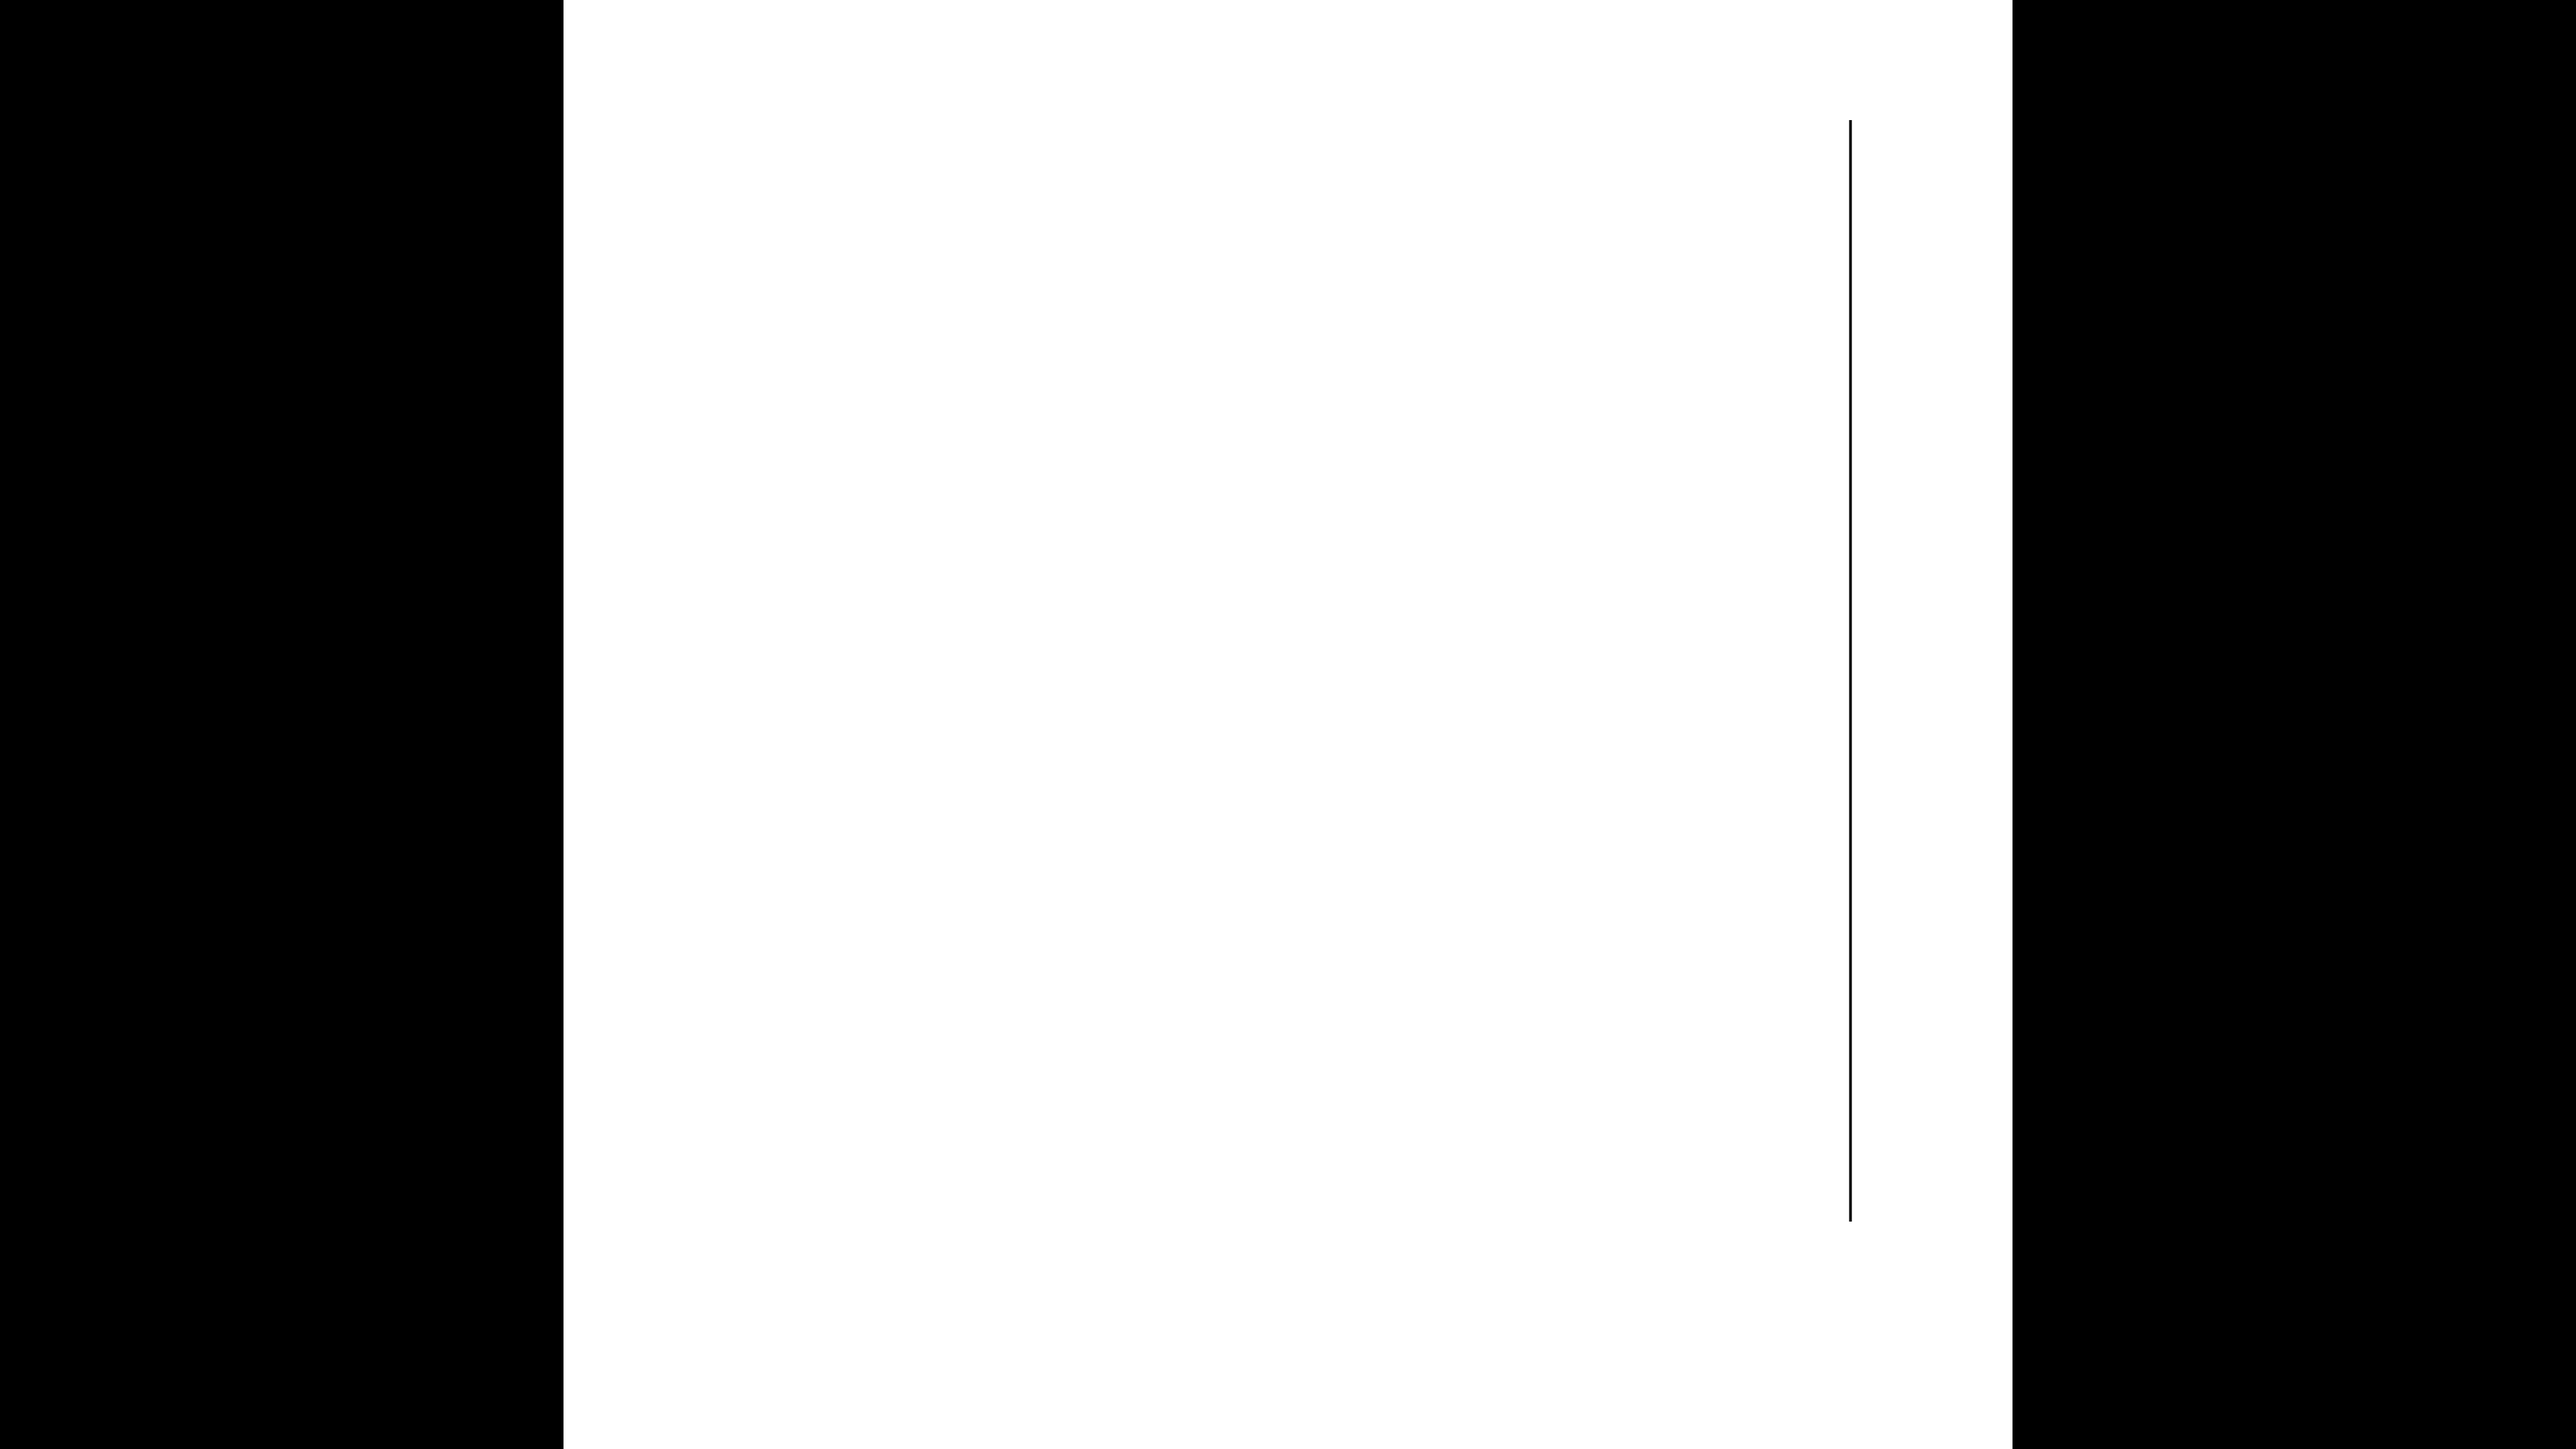
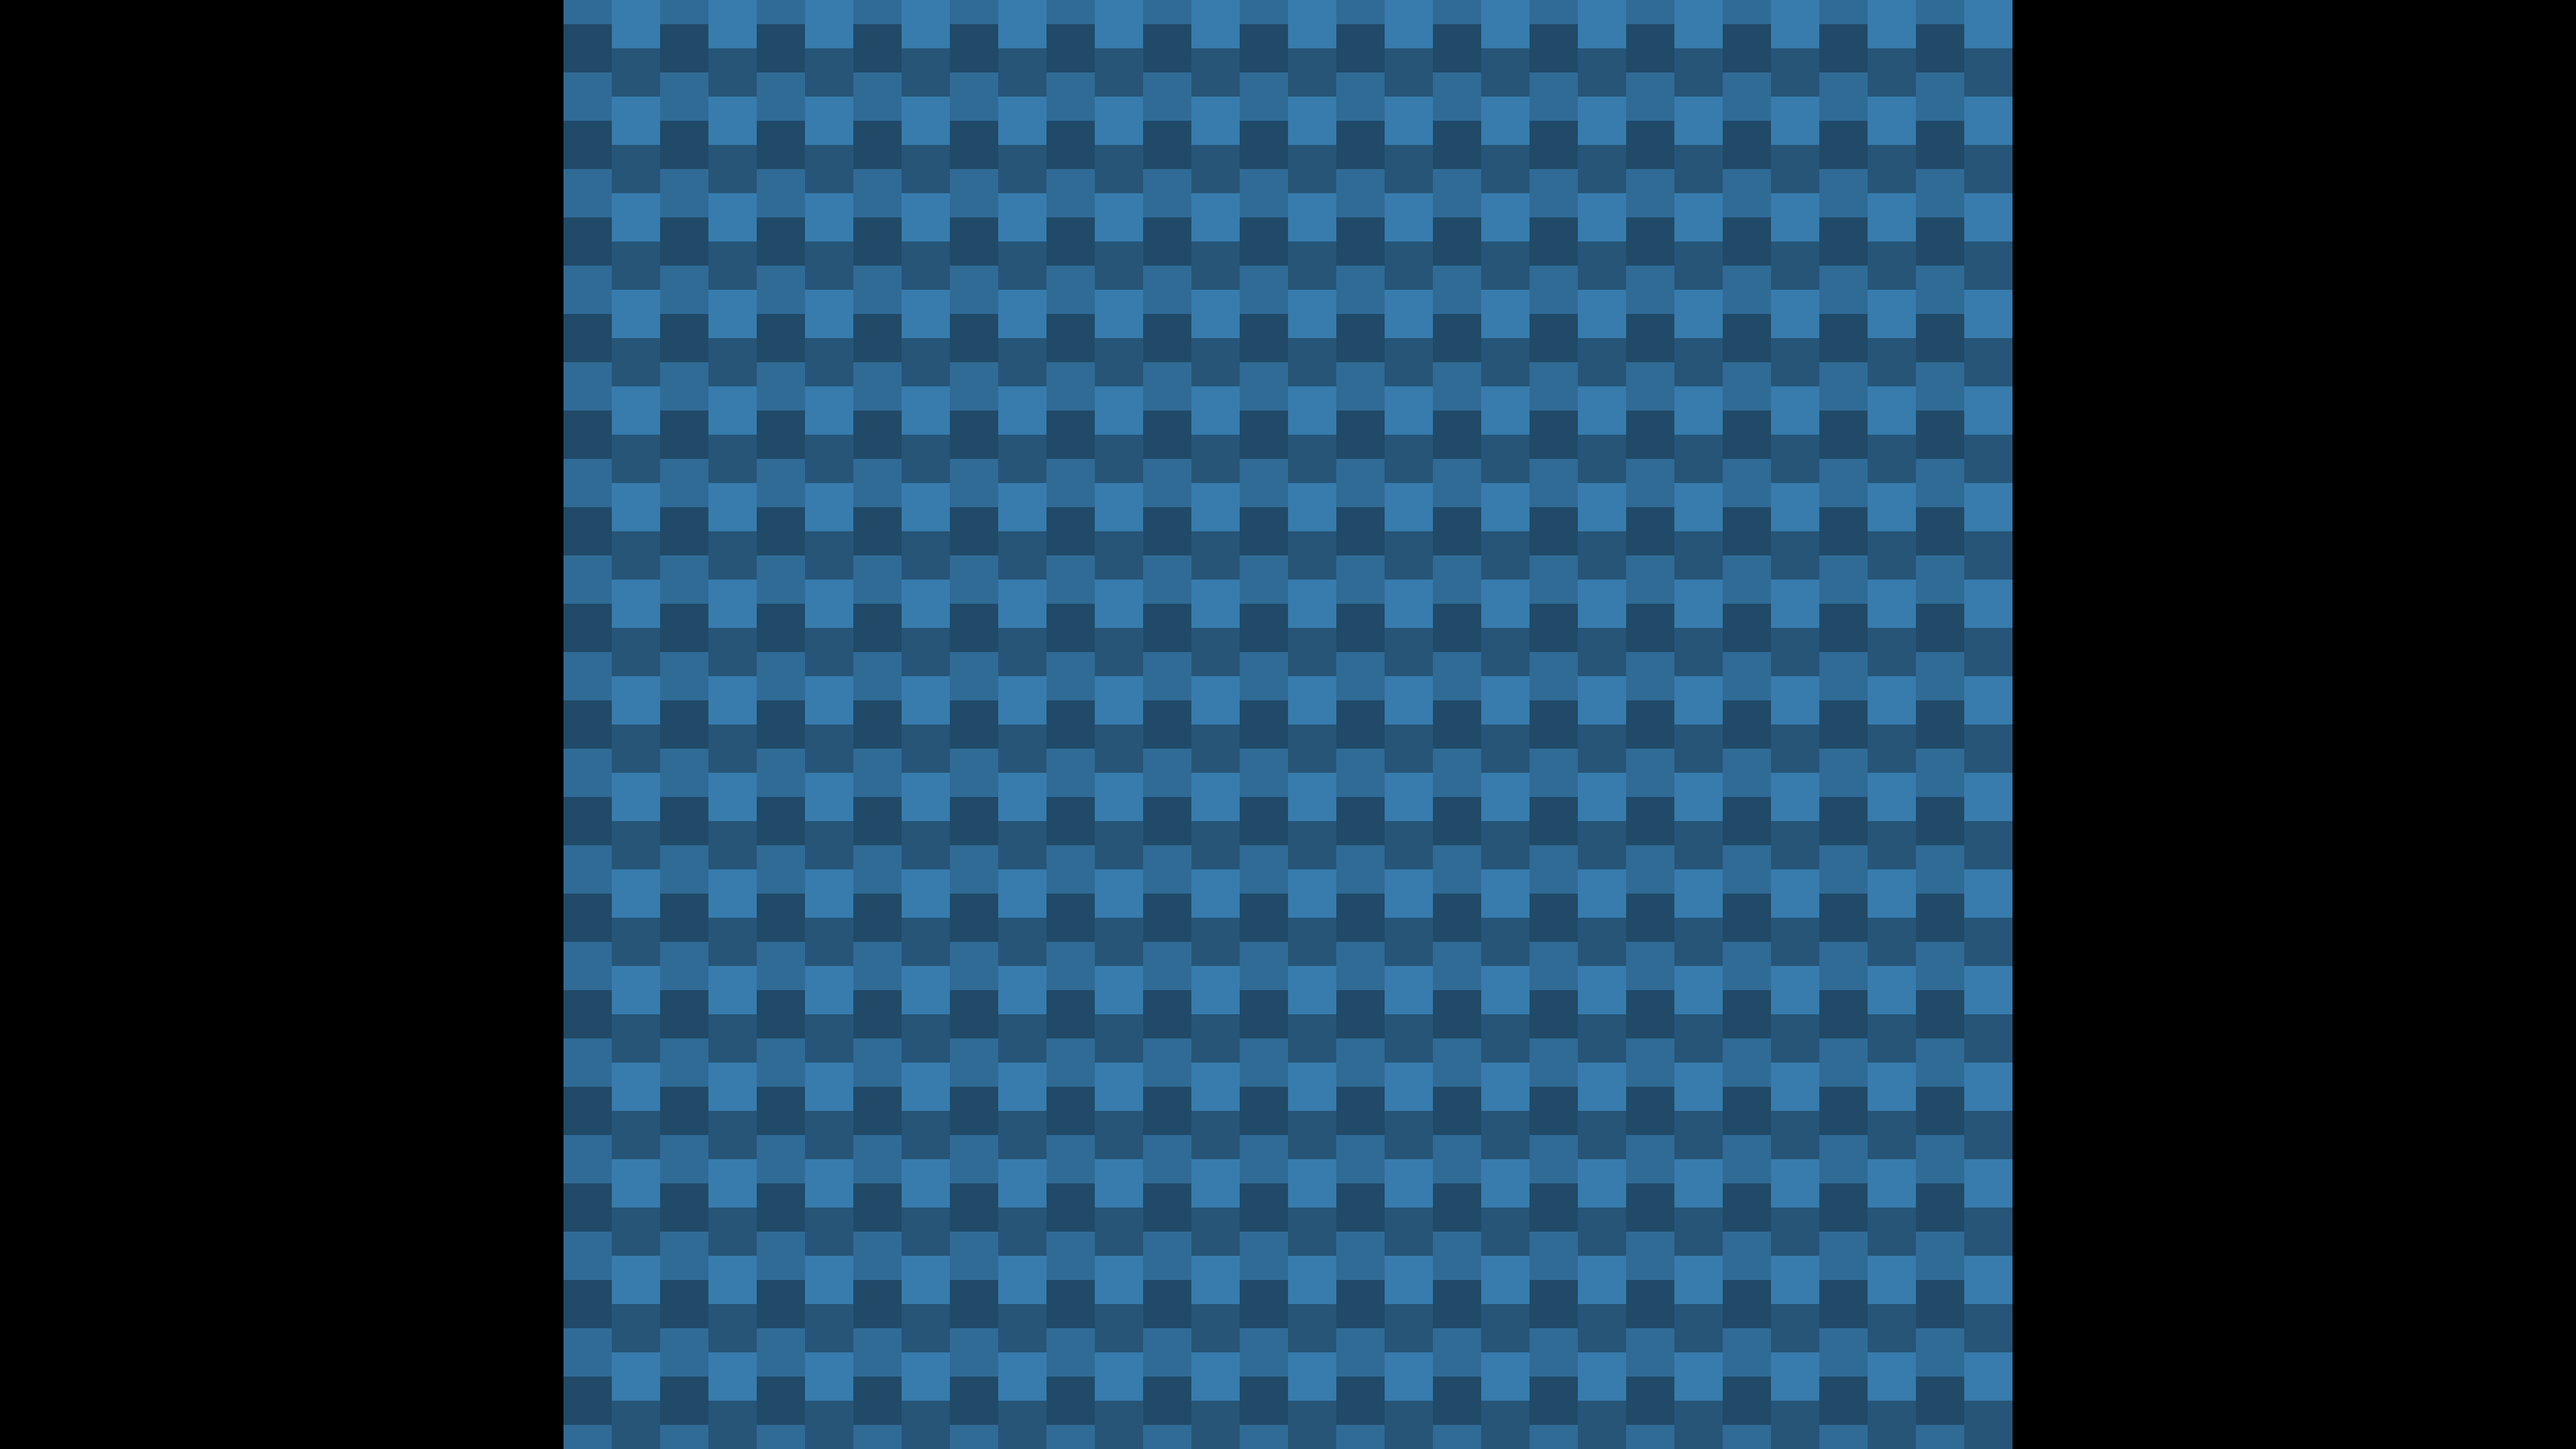
Added background to screen

diff --git a/base.py b/base.py
@@ -34,12 +34,14 @@ while running:
                 screen.blit(bg, (0, 0))
                 screen.blit(cash_text, cash_text_position)
                 py.display.flip()
+
             if event.key == py.K_LEFT:
                 cash_val = cash_val_change(cash_val, -1)
                 cash_text = cash_font.render("Cash: " + str(cash_val), True, cash_text_colour)
                 screen.blit(bg, (0, 0))
                 screen.blit(cash_text, cash_text_position)
                 py.display.flip()
+                
     py.display.flip()
 
 py.quit()

diff --git a/Resources/Variables/variables.py b/Resources/Variables/variables.py
@@ -4,9 +4,10 @@ import pygame as py
 from Resources.Colours.colours import *
 
 ########## SCREEN ##########
-screen = py.display.set_mode((768, 432))
+screen_size = (1280, 720)
+screen = py.display.set_mode(screen_size)
 bg = py.image.load("Resources/Images/Background1.png")
-bg = py.transform.scale(bg, (768, 432))
+bg = py.transform.scale(bg, screen_size)
 ########## CASH ##########
 cash_val = 0
 cash_text_position = (20, 20)
